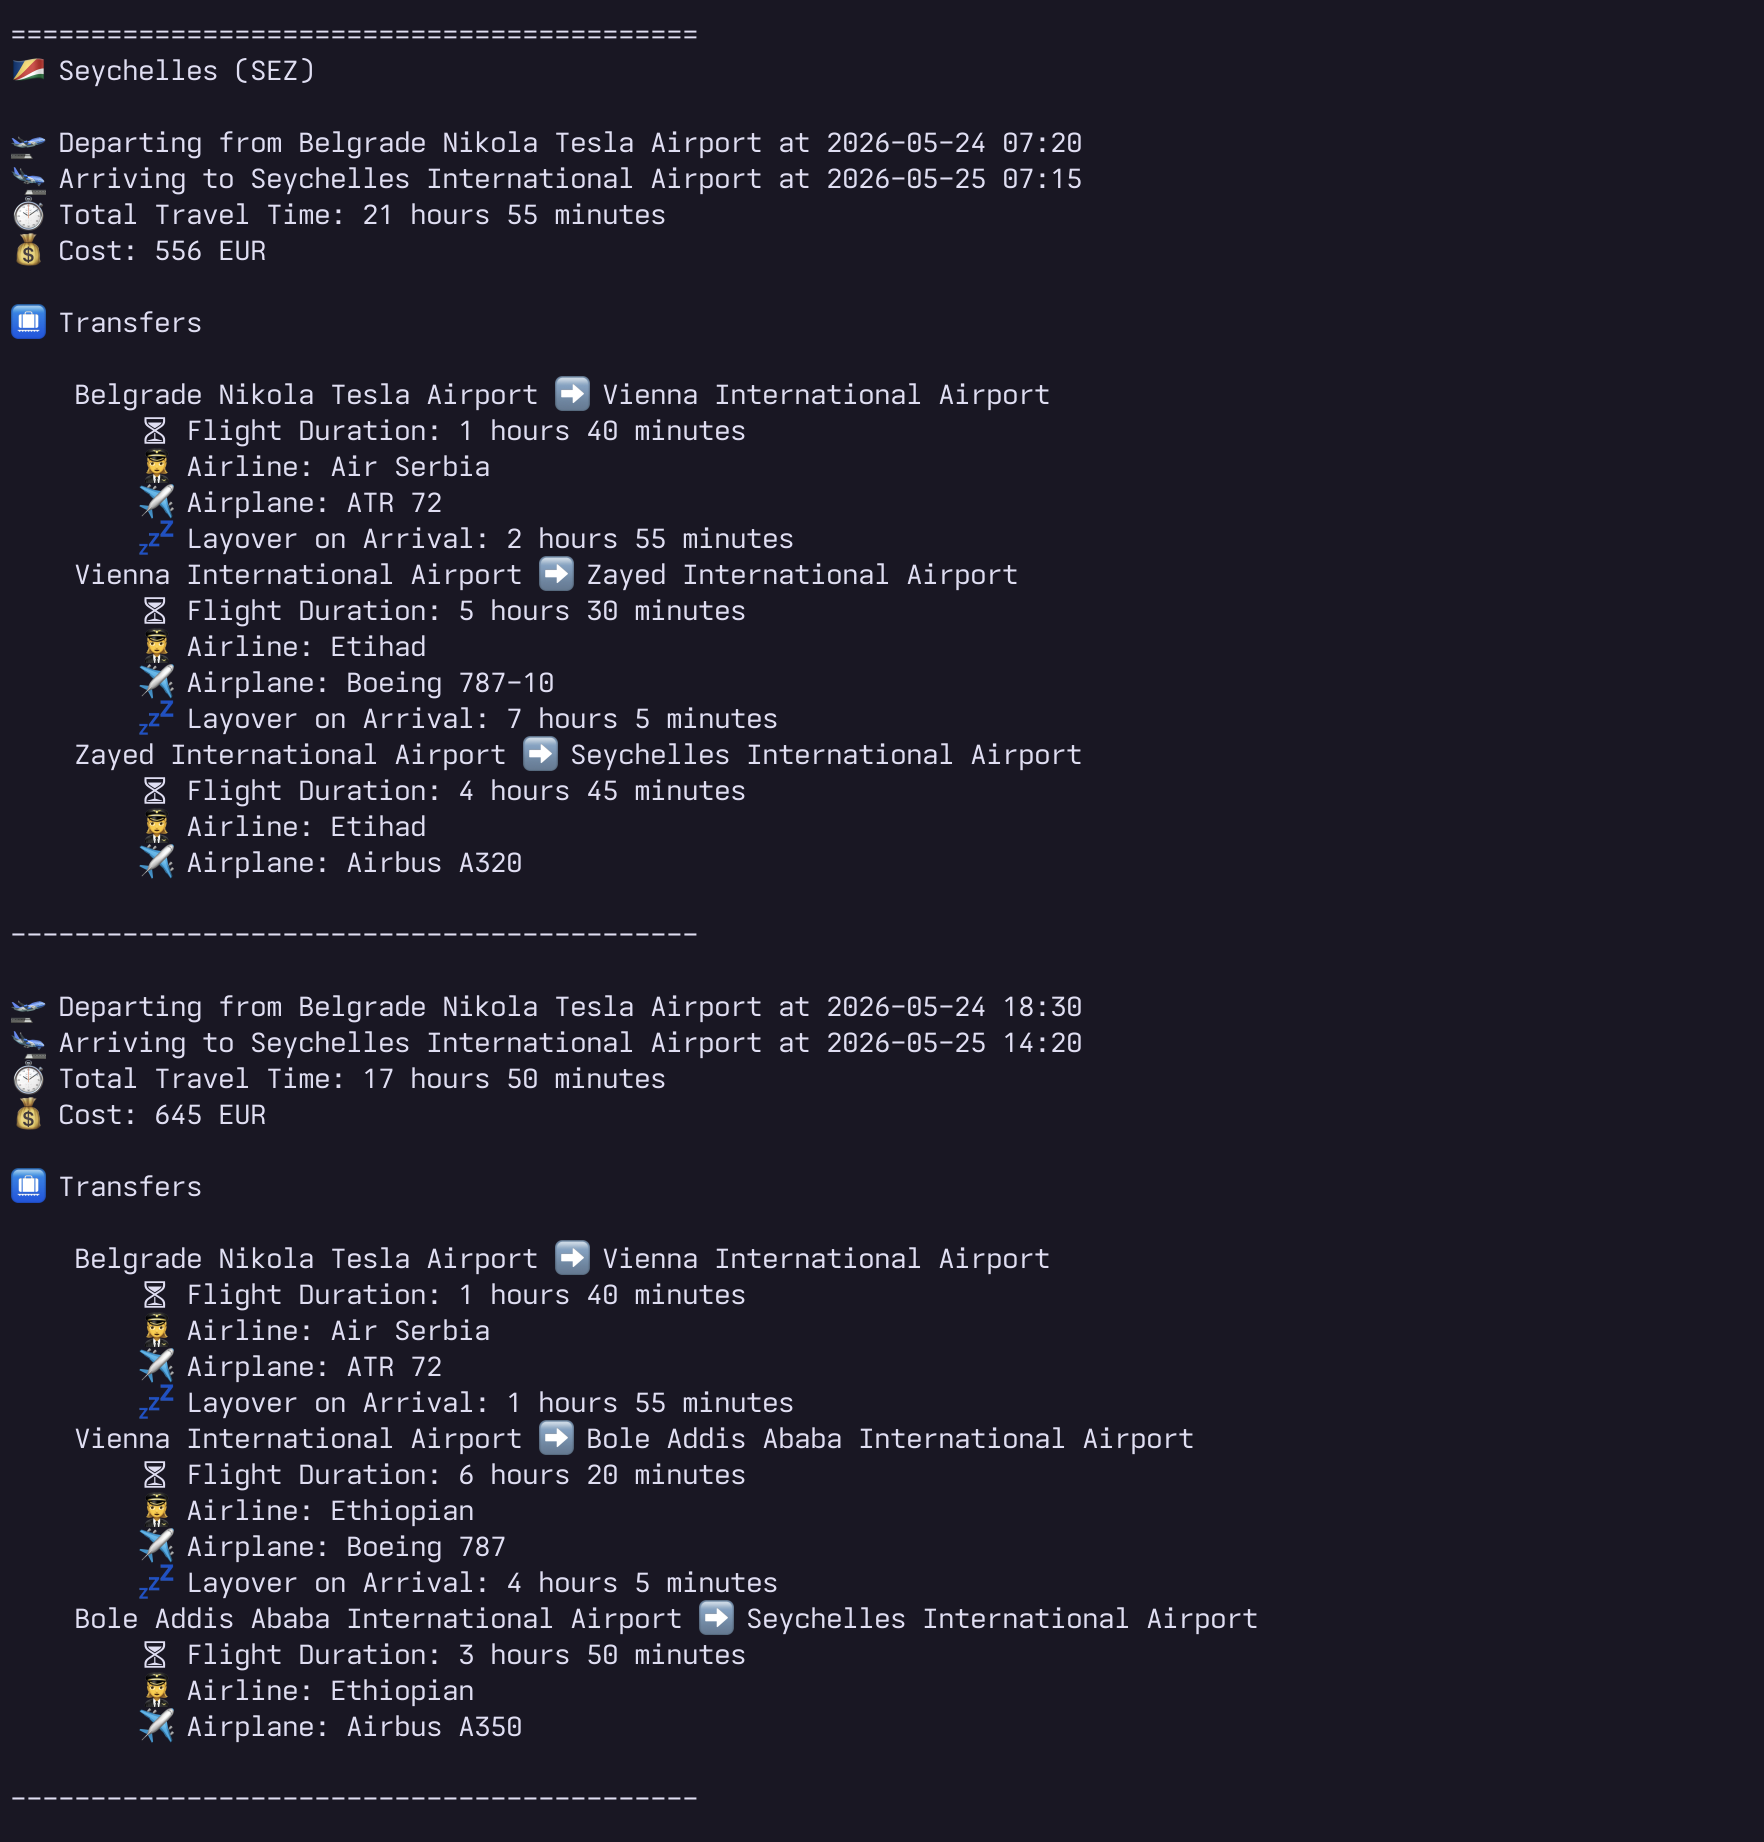
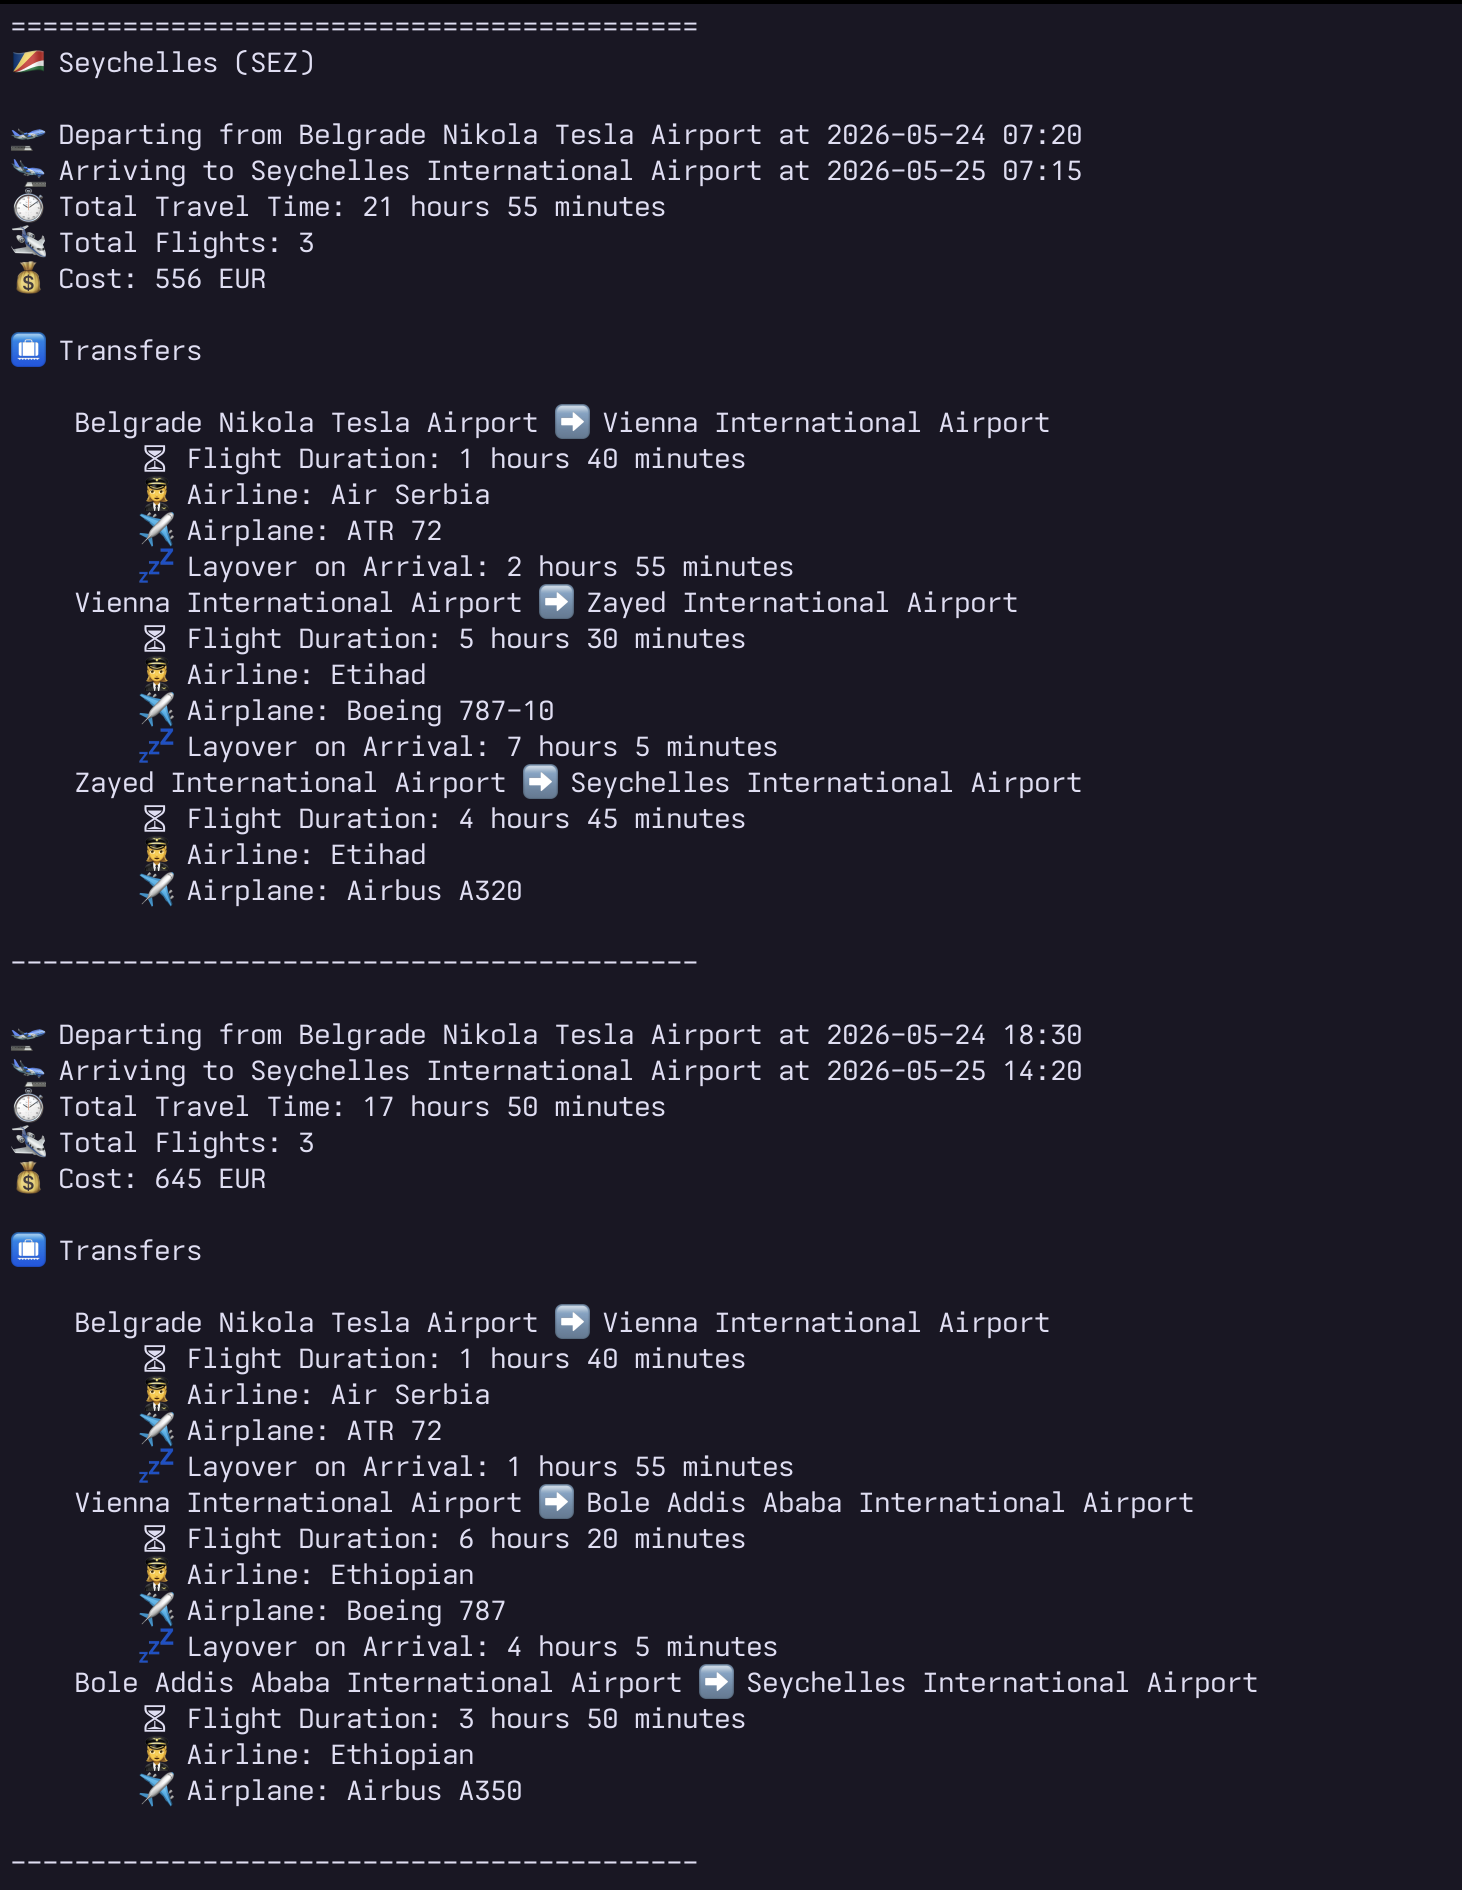
Added total number of flights in a journey

diff --git a/internal/utils/display_response.go b/internal/utils/display_response.go
@@ -30,6 +30,7 @@ func DisplayResponse(destination Destination, responseHelper ResponseHelper, cur
 		fmt.Printf("\n🛫 Departing from %s at %s", firstDeparture.Name, firstDeparture.Time)
 		fmt.Printf("\n🛬 Arriving to %s at %s", lastArrival.Name, lastArrival.Time)
 		fmt.Printf("\n⏱️ Total Travel Time: %d hours %d minutes", durationHours, durationMinutes)
+		fmt.Printf("\n🛩️ Total Flights: %d", len(travelOption.Flights))
 		fmt.Printf("\n💰 Cost: %d %s", travelOption.Price, currency)
 
 		fmt.Println("")

diff --git a/README.md b/README.md
@@ -1,5 +1,5 @@
 # Flight CLI
-*A small Go project that was primarily created as a practice for using third party APIs to obtain data to be used within Go projects*
+*A small Go project that was primarily created as a practice for using and parsing complex nested third party APIs*
 
 ![Screenshot Example](screenshots/screenshot_example.png)
 
@@ -15,10 +15,32 @@ The API key required for accessing SERPAPI's data will be stored in the `.env` f
 
 The library `github.com/joho/godotenv` is used for reading the environment variables from the file.
 
-## Origin Airport
+## Origin Airport and Currency
 
-The origin airport's IATA code is defined in the `.env` file under the key of `ORIGIN_CODE`.
+The origin airport's IATA code is defined in the `.env` file under the key of `ORIGIN_CODE`. Similarly, the display currency is also provided in the `.env` under the key of currency. So, as an example, your `.env` file would look like this:
+```
+API_KEY=xxx
+ORIGIN_CODE=ADD
+CURRENCY=EUR
+```
 
 ## Destination flights
 
 The `destinations.json` file contains a list of target destinations as well as the rules for their display in a nice and structured way. While much of this data could be further obtained using more third party APIs, that is outside of the scope of this project. As such, the structure presented there is final and the app is functioning expecting it not to change.
+
+## Display
+
+The display of the values is determined by the `internal/utils/display_response.go` file, while the parsing of the response from the API is determined by structs found in `internal/utils/response_parser.go`.
+
+At this point, the following information is displayed:
+* Initial Departure Time
+* Final Arrival Time
+* Total Travel Time
+* Total Number of Flights
+* Total Cost
+
+Furthermore, for the flights with multiple transfers, extra information is provided for each flight:
+* Flight duration
+* Airline
+* Airplane
+* Layover Time